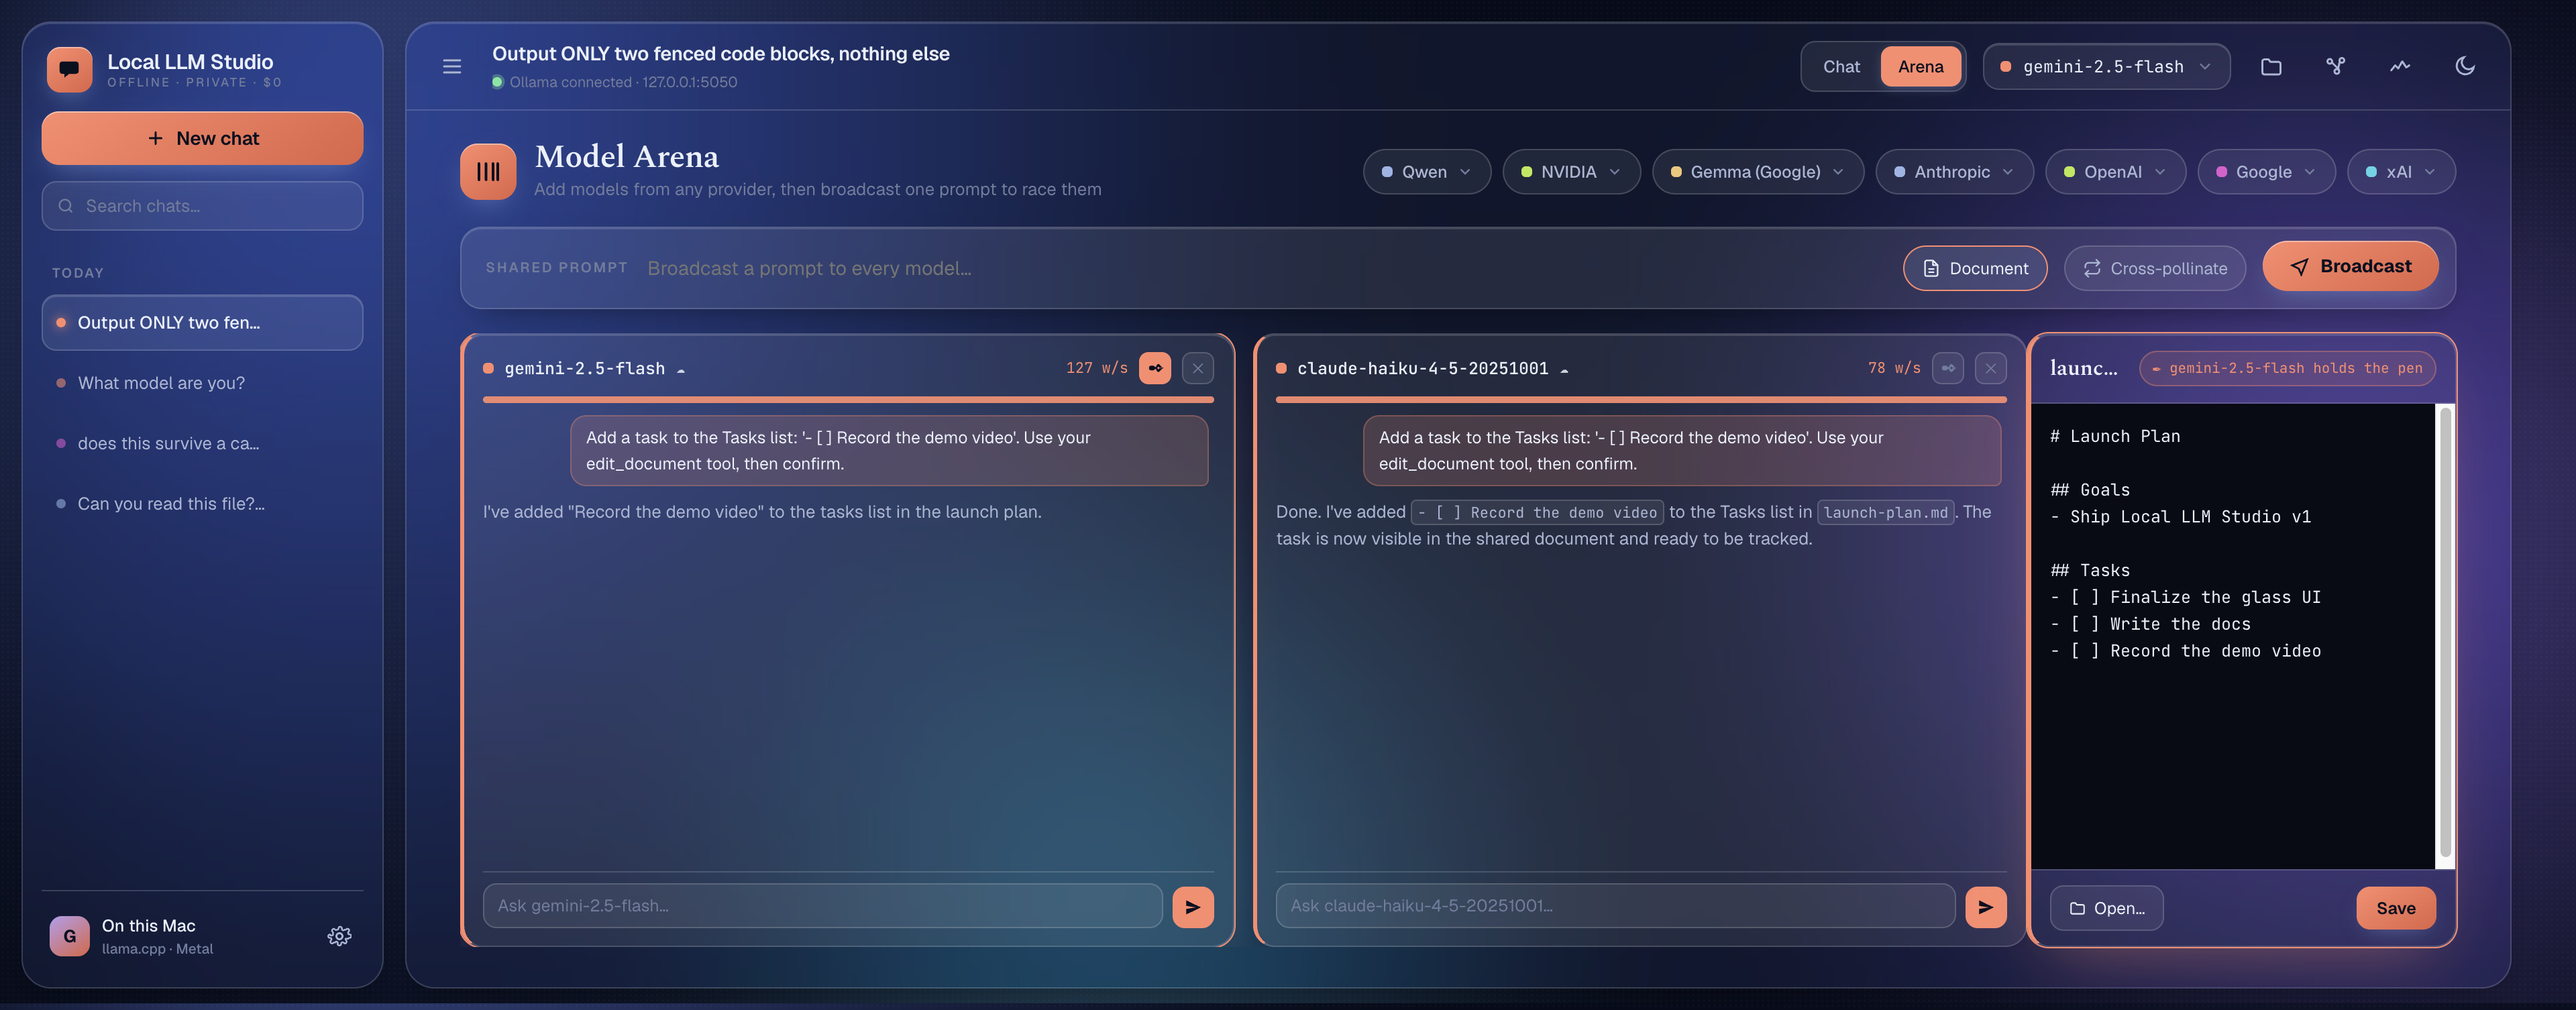
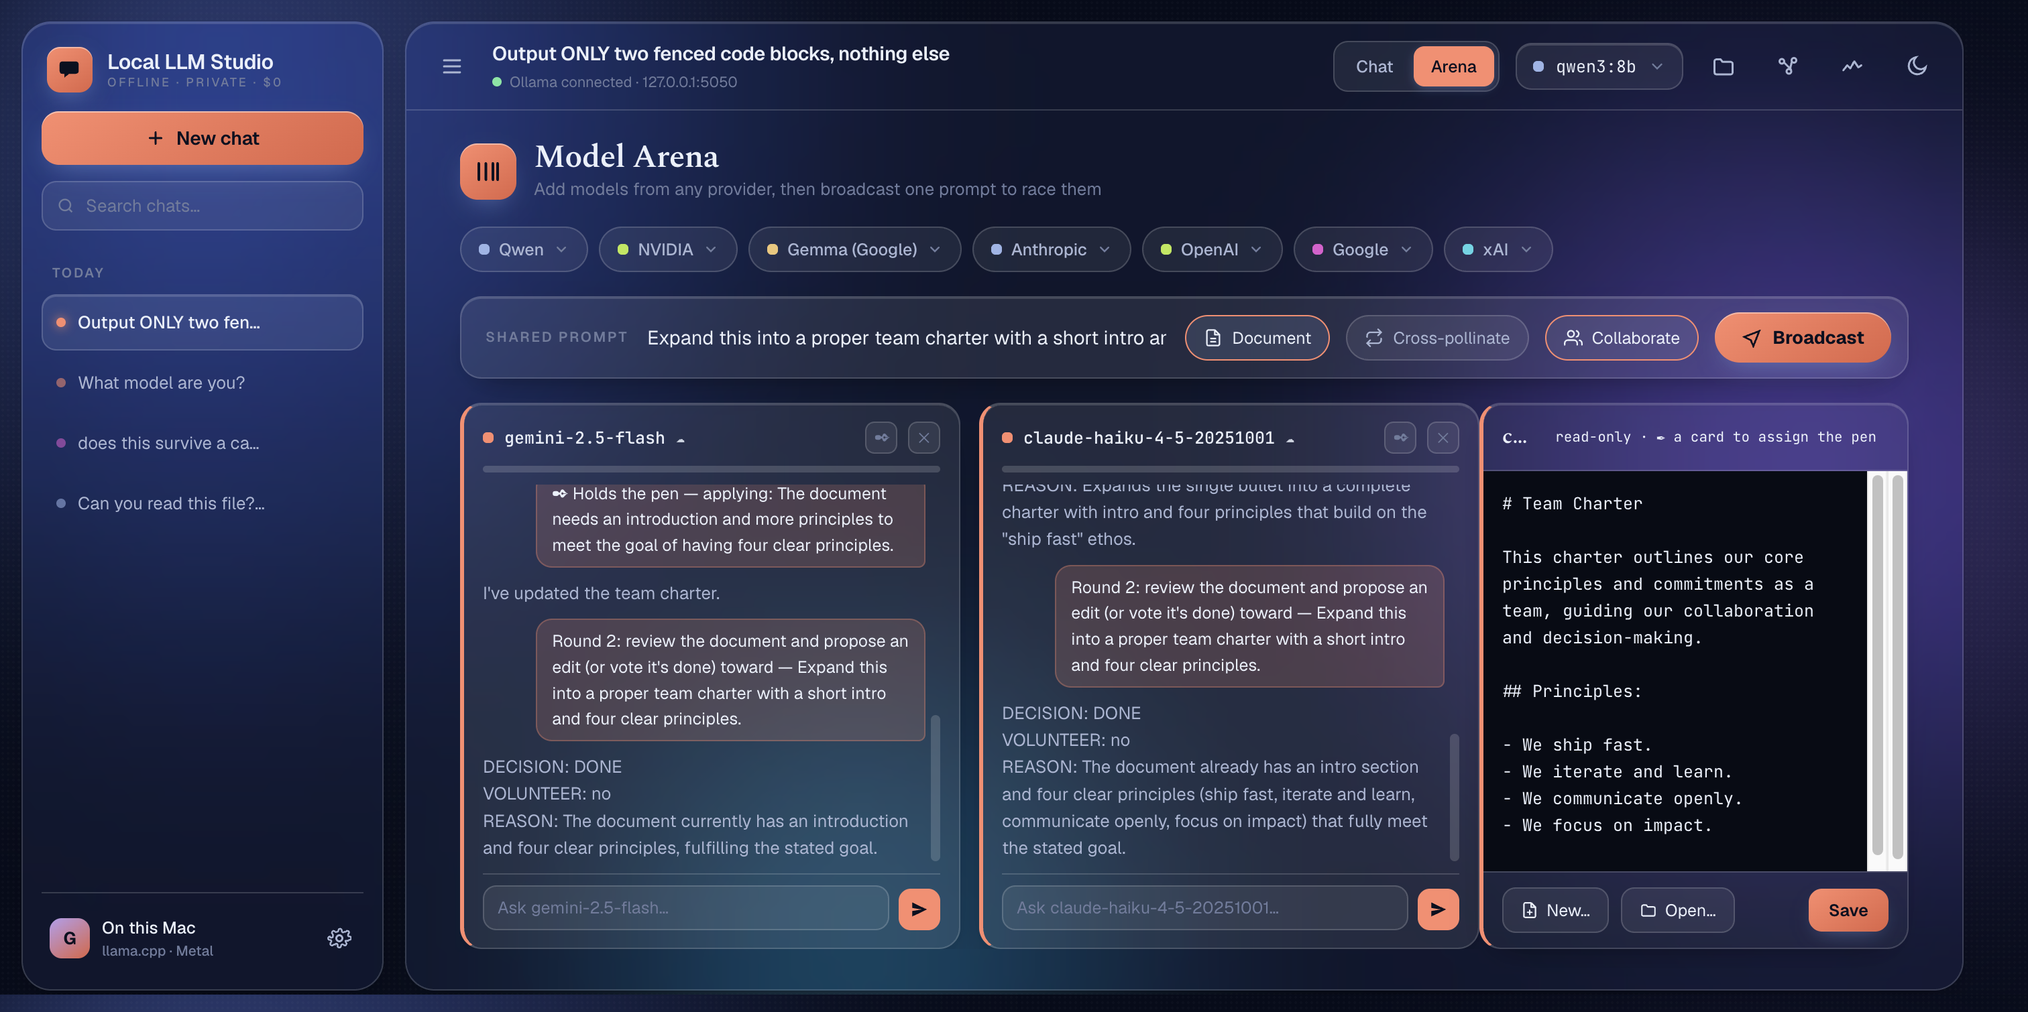
Arena doc previewer: 'New…' button to create a fresh document
A New… button beside Open… pops the native Save dialog (choose location + filename),
creates the file there, and opens it ready to edit. The extension picks the type:
text/Markdown become editable; .docx/.xlsx/.pptx are created as valid blank Office files
via python-docx/openpyxl/python-pptx. New POST /api/doc/new endpoint.

Also refreshes docs/screenshots/02-arena-doc.png to show the Collaborate feature in
action and the New/Open/Save document controls.

diff --git a/static/reskin.js b/static/reskin.js
@@ -648,6 +648,18 @@
       else if (d.error) window.showToast && window.showToast(d.error);
     }).catch(function () { btn.disabled = false; btn.innerHTML = old; });
   }
+  function newDoc() {
+    var btn = $("docNewBtn"); if (!btn) return; var old = btn.innerHTML; btn.disabled = true; btn.textContent = "…";
+    fetch("/api/doc/new", { method: "POST" }).then(function (r) { return r.json(); }).then(function (d) {
+      btn.disabled = false; btn.innerHTML = old;
+      if (d.ok) {
+        state.doc = { open: true, name: d.name, content: d.content, editable: d.editable, kind: d.kind };
+        var pane = $("arenaDoc"); if (pane && pane.hidden) { pane.hidden = false; $("arenaDocBtn") && $("arenaDocBtn").classList.add("on"); }
+        renderDoc(); var ta = document.querySelector("#docBodyEl textarea"); if (ta) ta.focus();
+        window.showToast && window.showToast("Created " + d.name);
+      } else if (d.error) window.showToast && window.showToast(d.error);
+    }).catch(function () { btn.disabled = false; btn.innerHTML = old; });
+  }
   function saveDoc() {
     var ta = document.querySelector("#docBodyEl textarea"); if (!ta || !state.doc) return;
     fetch("/api/doc/save", { method: "POST", headers: { "Content-Type": "application/json" }, body: JSON.stringify({ content: ta.value }) })
@@ -860,6 +872,7 @@
     if ($("arenaCross")) $("arenaCross").addEventListener("click", crossPollinate);
     if ($("arenaCollab")) $("arenaCollab").addEventListener("click", autoCollaborate);
     if ($("arenaDocBtn")) $("arenaDocBtn").addEventListener("click", toggleDoc);
+    if ($("docNewBtn")) $("docNewBtn").addEventListener("click", newDoc);
     if ($("docOpenBtn")) $("docOpenBtn").addEventListener("click", openDoc);
     if ($("docSaveBtn")) $("docSaveBtn").addEventListener("click", saveDoc);
     if ($("sbConnect")) $("sbConnect").addEventListener("click", connectVault);

diff --git a/templates/reskin.html b/templates/reskin.html
@@ -168,6 +168,7 @@
             </div>
             <div class="docpane-body" id="docBodyEl"><div class="arena-out-idle" style="padding:20px">Open a Markdown/text file. Every racing model can read it; give one model the pen (✒ on its card) and it can edit the doc when it answers.</div></div>
             <div class="docpane-foot">
+              <button class="pen-take" id="docNewBtn" title="Create a new document — choose where to save it, then edit it here"><svg viewBox="0 0 24 24" fill="none" stroke="currentColor" stroke-width="2" stroke-linecap="round" stroke-linejoin="round"><path d="M14 2H6a2 2 0 0 0-2 2v16a2 2 0 0 0 2 2h12a2 2 0 0 0 2-2V8z"/><path d="M14 2v6h6M12 12v6M9 15h6"/></svg>New…</button>
               <button class="pen-take" id="docOpenBtn"><svg viewBox="0 0 24 24" fill="none" stroke="currentColor" stroke-width="2" stroke-linecap="round" stroke-linejoin="round"><path d="M3 7a2 2 0 0 1 2-2h4l2 2.5h8a2 2 0 0 1 2 2V18a2 2 0 0 1-2 2H5a2 2 0 0 1-2-2z"/></svg>Open…</button>
               <button class="pen-save" id="docSaveBtn">Save</button>
             </div>

diff --git a/app.py b/app.py
@@ -2507,6 +2507,47 @@ def api_doc_browse() -> Response:
     return _open_doc_path(proc.stdout.strip())
 
 
+@app.post("/api/doc/new")
+def api_doc_new() -> Response:
+    """Pop the native macOS Save dialog so the user chooses a location + filename, create
+    a fresh document there, and open it in the viewer ready to edit. The extension picks
+    the type: text/Markdown (default) become editable; .docx/.xlsx/.pptx are created as
+    valid blank Office files (preview)."""
+    try:
+        proc = subprocess.run(
+            ["osascript", "-e", 'POSIX path of (choose file name with prompt "Create a new document" default name "untitled.md")'],
+            capture_output=True, text=True, timeout=300,
+        )
+    except (subprocess.SubprocessError, OSError) as exc:
+        return jsonify({"ok": False, "error": f"Save dialog unavailable: {exc}"})
+    if proc.returncode != 0:  # user pressed Cancel
+        return jsonify({"ok": False, "cancelled": True})
+    raw = proc.stdout.strip()
+    if not raw:
+        return jsonify({"ok": False, "cancelled": True})
+    path = os.path.realpath(os.path.expanduser(raw))
+    ext = os.path.splitext(path)[1].lower()
+    if not ext:
+        path += ".md"
+        ext = ".md"
+    try:
+        if ext == ".docx":
+            import docx
+            docx.Document().save(path)
+        elif ext == ".xlsx":
+            import openpyxl
+            openpyxl.Workbook().save(path)
+        elif ext == ".pptx":
+            from pptx import Presentation
+            Presentation().save(path)
+        else:  # text / markdown / anything else → empty editable text file
+            with open(path, "w", encoding="utf-8") as f:
+                f.write("")
+    except Exception as exc:
+        return jsonify({"ok": False, "error": f"Could not create the document: {exc}"}), 400
+    return _open_doc_path(path)
+
+
 @app.get("/api/doc/raw")
 def api_doc_raw() -> Response:
     """Serve the open document's bytes (for previewing images/PDF/video inline)."""
